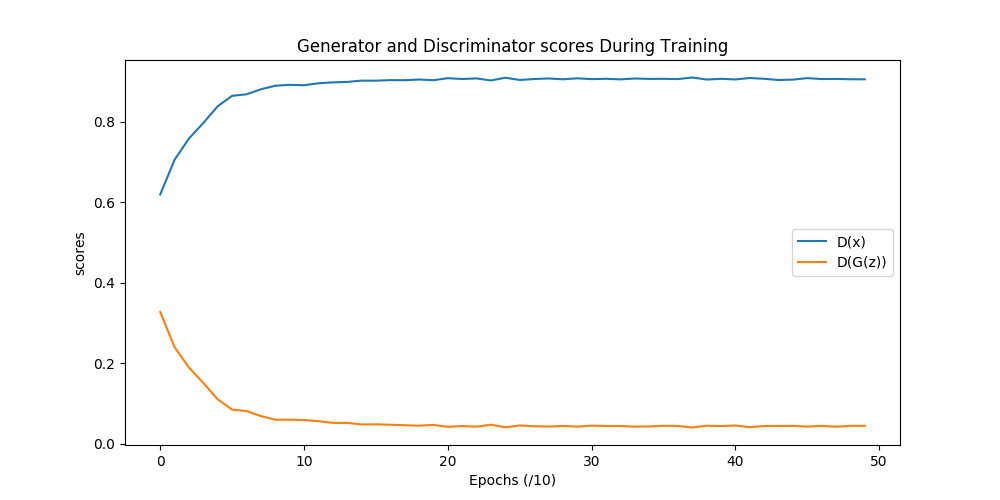
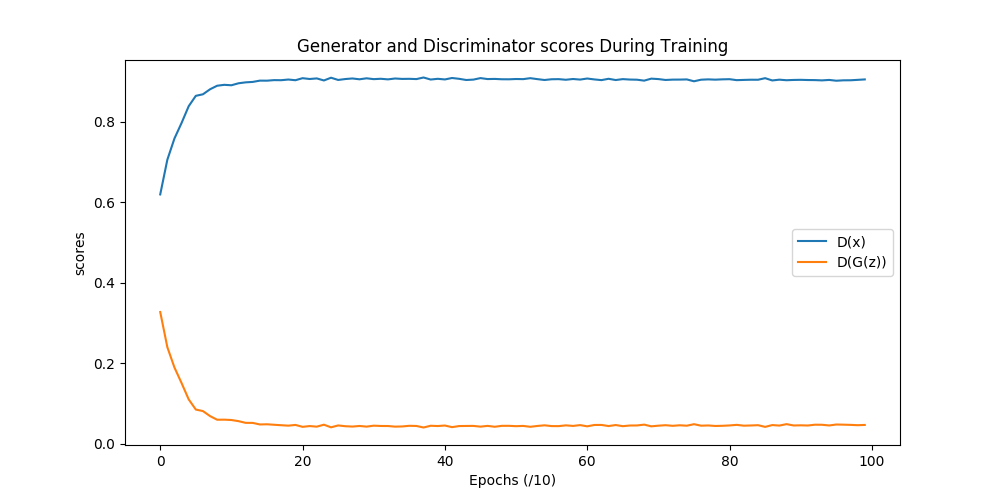
Fin exp : archi et 112

diff --git a/W4.md b/W4.md
@@ -162,17 +162,22 @@ Utilisation d'une architecture de BEGAN plus proche de celle du papier d'origine
 Le BEGAN utiliser pour le moment ne corespond pas vraiment à celui présenter dans le papier
 
 __Résultats__ :
-  - BEGAN (gt-2):
-		Time=
+  - BEGAN (gt-2): Mode collapse important. Apprentissage lent certainement à cause du mode collaspe. 
+		Time=6h05
 		
 __Conclusion__ :
-  - :
-  
+  - Dès le début de l'apprentissage le modèle passe en mode collapse, l'initialissation des poids à probablement de l'importance.
+
+![W4_bagan final](W4_archi_began/final.png "BEGAN")
+
 ##### Test DCGAN112 en 112*112 lr=0.0004 epochs=1000 batch_size=64
 test grande taille avec les nouvelles avancées
 
 __Résultats__ :
-  - DCGAN112 (gt-0): 
+  - DCGAN112 (gt-0): Des résulats proche de W3_dcgan en terme d'image. Les courbes montrent une stagnation des lossese et des scores.
+		Time=6h25
 
 __Conclusion__ :
-  - :
+  - Malgrès ce que semblent montrer les courbes, les images semblent s'améliorer au moins au début de l'entrainement. L'entrainement est un peut cours (à l'origine 5000 epochs à crash durant le weekend). 
+
+![W4_dcgan final](W4_112_dcgan/final.png "DCGAN")

diff --git a/W5.md b/W5.md
@@ -16,11 +16,15 @@
 
 ## Note d'expériences
 
-##### Test init en 32x32 epochs=1000 lr=0.0001 gamma=0.5 batch_size=32 decay_evry_Mstall
+##### Test init en 32x32 batchsize=32
 Initialisation des poids différente [ref](https://github.com/carpedm20/BEGAN-pytorch/issues/7)
+Began : decay_evry_Mstall epochs=1000 lr=0.0001 gamma=0.5
+Dcgan : decay_evry_1000 epochs=5000 lr=0.0004
 
 __Résultats__ :
   - BEGAN (gt-2):
+		Time=
+  - DCGAN (gt-0):
 		Time=
 		
 __Conclusion__ :
